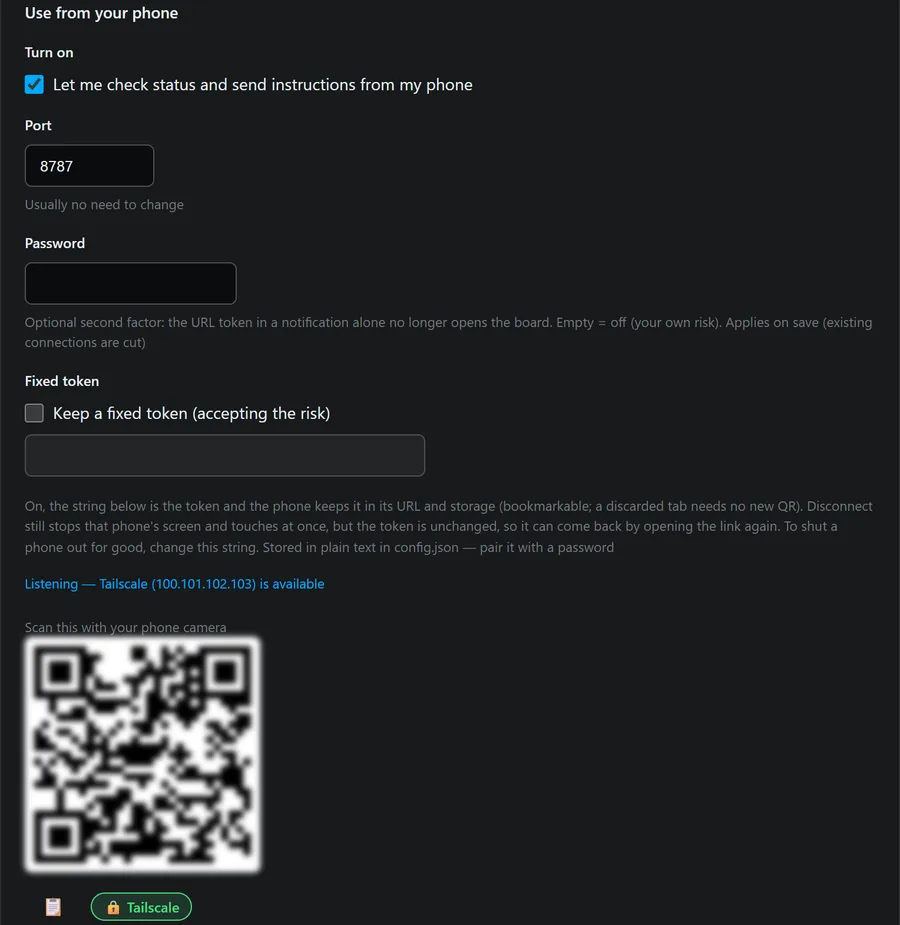
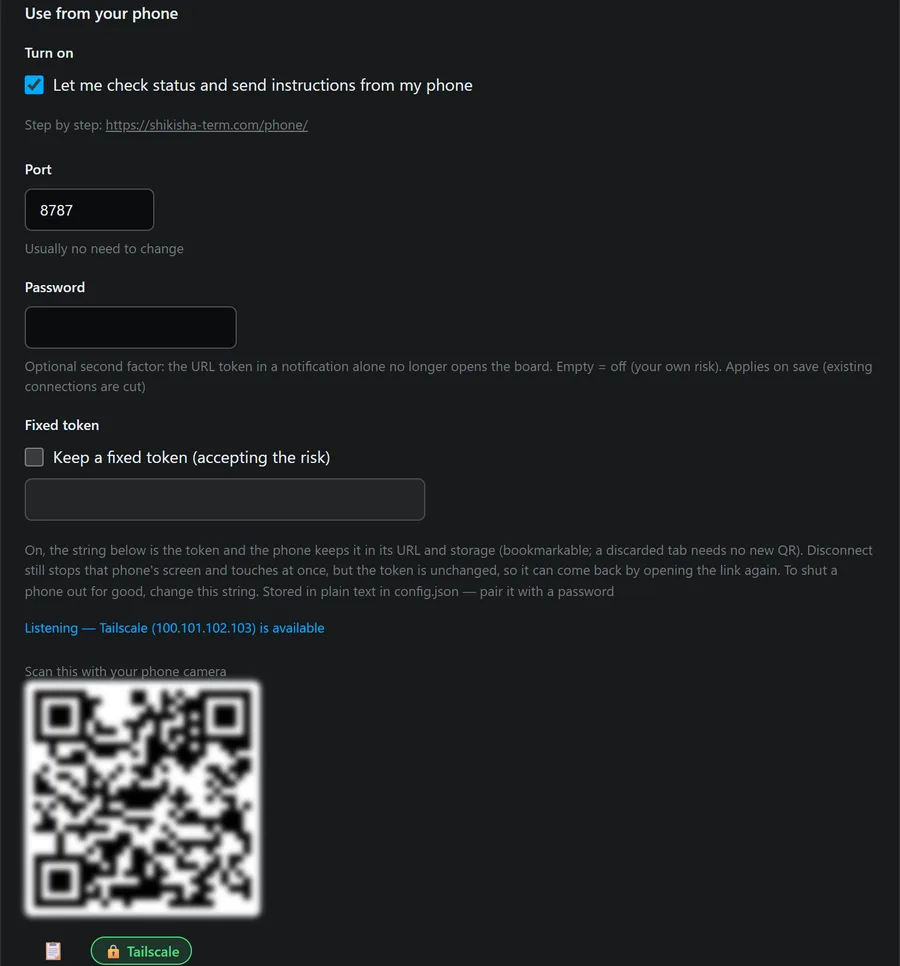
Let the network badge under a phone's QR open the phone page, and show the settings' walkthrough link before the box is ticked

diff --git a/crates/core/src/webui.rs b/crates/core/src/webui.rs
@@ -184,6 +184,9 @@ pub fn install_page(prog: &str) -> Option<String> {
     match prog.trim() {
         p if p.eq_ignore_ascii_case("git") => Some("https://git-scm.com/downloads".to_string()),
         p if p.eq_ignore_ascii_case("gh") => Some("https://cli.github.com/".to_string()),
+        // The phone page in the person's language: it begins with putting
+        // Tailscale on the PC and the phone, which is the install that matters here
+        p if p.eq_ignore_ascii_case("tailscale") => Some(crate::i18n::t("settings.phone.guide.url")),
         p => crate::profile::install_url_for(p),
     }
 }
@@ -5808,7 +5811,7 @@ const PAGE: &str = r##"<!doctype html>
  /* Which network the phone's connection link leads to. The tone names are its
     own (not the page-wide .warn, which is a paragraph of danger text) so that
     a badge stays a badge whatever else those words come to mean. */
- .netbadge { display:inline-flex; align-items:center; gap:var(--s2); font-size:12px; font-weight:600;
+ .netbadge { display:inline-flex; align-items:center; gap:var(--s2); font-size:12px; font-weight:600; text-decoration:none; cursor:pointer;
    line-height:1.5; white-space:nowrap; border-radius:999px; padding:2px 10px; border:1px solid; }
  .netbadge.ok   { color:var(--live);   border-color:var(--live);
    background:color-mix(in srgb, var(--live) 14%, transparent); }
@@ -12442,6 +12445,14 @@ function remoteCard() {
   l.append(onoff, document.createTextNode(T["settings.phone.enable.label"]));
 
   box.append(el("div", {class:"row"}, el("label", {}, T["settings.phone.enable"]), l));
+  // Where the whole thing is written out: putting Tailscale on the PC and the
+  // phone, step by step, and what the same Wi-Fi alone gives. Shown before the
+  // box is ticked, since that is when it is wanted. The address is the link's
+  // own text, so it is readable and typable even where a window will not follow it.
+  box.append(el("div", {style:"margin:var(--s1) 0 var(--s3)"},
+    el("span", {class:"hint"}, T["settings.phone.guide"] + " "),
+    el("a", {class:"hint", href:T["settings.phone.guide.url"], target:"_blank"},
+       T["settings.phone.guide.url"])));
   box.append(el("div", {class:"row"}, el("label", {}, T["settings.phone.port"]),
     (() => {
       const i = el("input", {type:"number", style:"width:110px"});
@@ -12606,14 +12617,6 @@ function remoteCard() {
                                 style:"margin-top:var(--s2)"},
           r.sticky_token ? T["settings.phone.install.on"] : T["settings.phone.install.need"]));
       }
-      // Where the whole thing is written out: what works on the same Wi-Fi
-      // with nothing installed, what reaching it from a cafe costs, and what
-      // the line above is for. The address is the link's own text, so it is
-      // readable and typable even where a window will not follow it.
-      qrbox.append(el("div", {style:"margin-top:var(--s3)"},
-        el("span", {class:"hint"}, T["settings.phone.guide"] + " "),
-        el("a", {class:"hint", href:T["settings.phone.guide.url"], target:"_blank"},
-           T["settings.phone.guide.url"])));
     }
   }
 
@@ -12643,7 +12646,10 @@ function remoteCard() {
     };
     const skin = nets[kind];
     if (!skin) return el("span");
-    return el("span", {class:"netbadge " + skin[0], title: skin[3]},
+    // Pressed, the same walkthrough as the line under the switch: the badge is
+    // where "why amber?" is asked, and a tooltip answers nobody on a touch screen
+    return el("a", {class:"netbadge " + skin[0], title: skin[3],
+      href:T["settings.phone.guide.url"], target:"_blank"},
       (skin[1] ? skin[1] + " " : "") + skin[2]);
   }
 
@@ -20057,6 +20063,18 @@ mod tests {
         );
         // Errors out (and isn't saved) for conversational text alone
         assert!(extract_lua("どのような自動化を作りますか？").is_err());
+    }
+
+    /// The network badge under a phone's QR opens the phone page, which begins
+    /// with putting Tailscale on both ends: the board's window asks for it by
+    /// this name, and the address is the app's own words, never the page's.
+    #[test]
+    fn tailscale_opens_the_phone_page() {
+        let url = super::install_page("tailscale").unwrap_or_default();
+        assert!(url.starts_with("https://shikisha-term.com/") && url.ends_with("phone/"),
+                "the badge opens {url:?}");
+        assert!(PAGE.contains(r#"href:T["settings.phone.guide.url"], target:"_blank"},"#),
+                "the settings' badge opens nothing");
     }
 
     /// The setup splits the assistant AIs by whether this PC has them, in the

diff --git a/crates/core/src/shell.rs b/crates/core/src/shell.rs
@@ -3791,7 +3791,7 @@ pub const PAGE: &str = r####"<!doctype html><html lang="{{__lang__}}" translate=
     background:var(--raise); color:var(--text); border:1px solid var(--line);
     border-radius:var(--r-ctl); padding:7px 11px; cursor:pointer; }
   #veil .qrcopy:hover { border-color:var(--brand); }
-  .netbadge { display:inline-flex; align-items:center; gap:var(--s2); font-size:12px; font-weight:600;
+  .netbadge { display:inline-flex; align-items:center; gap:var(--s2); font-size:12px; font-weight:600; text-decoration:none; cursor:pointer;
     line-height:1.5; white-space:nowrap; border-radius:999px; padding:2px 10px; border:1px solid; }
   .netbadge.ok   { color:var(--live); border-color:var(--live);
     background:color-mix(in srgb, var(--live) 14%, transparent); }
@@ -11645,7 +11645,19 @@ function netBadge(kind) {
   };
   const skin = nets[kind];
   if (!skin) return el("span");
-  return el("span", {class:"netbadge " + skin[0], title:skin[3]},
+  // Pressed, it opens the walkthrough of the phone page, which begins with
+  // putting Tailscale on both ends. The badge is where the question "why
+  // amber?" is asked, and a tooltip answers nobody on a touch screen. The
+  // phone follows the link itself; this PC's window has no browser of its
+  // own, so it asks the app, which takes the address from its own words
+  return el("a", {class:"netbadge " + skin[0], title:skin[3],
+    href:T["settings.phone.guide.url"], target:"_blank", rel:"noopener",
+    onclick:(e) => {
+      e.stopPropagation();
+      if (!AT_PC) return;
+      e.preventDefault();
+      send({kind:"installhelp", prog:"tailscale"});
+    }},
     (skin[1] ? skin[1] + " " : "") + skin[2]);
 }
 
@@ -25475,6 +25487,7 @@ mod tests {
         // GitHub: a fact when it is here, the way to its page when it is not
         assert!(PAGE.contains(r#"if (st.gh) {"#) && PAGE.contains(r#"T["tui.setup.gh.ready"]"#), "gh being here is never said");
         assert!(PAGE.contains(r#"send({kind:"installhelp", prog:"gh"})"#), "GitHub CLI does not open its page");
+        assert!(PAGE.contains(r#"send({kind:"installhelp", prog:"tailscale"});"#), "the QR's network badge does not open the phone page");
         assert!(PAGE.contains("let setupYolo = true;"), "Yolo mode does not start ticked");
         // Each AI with the mark its tab wears, on the cards and on the links alike
         assert!(PAGE.contains(r#"el("span", {class:"nm"}, aiMark(a.id), a.name)"#)
